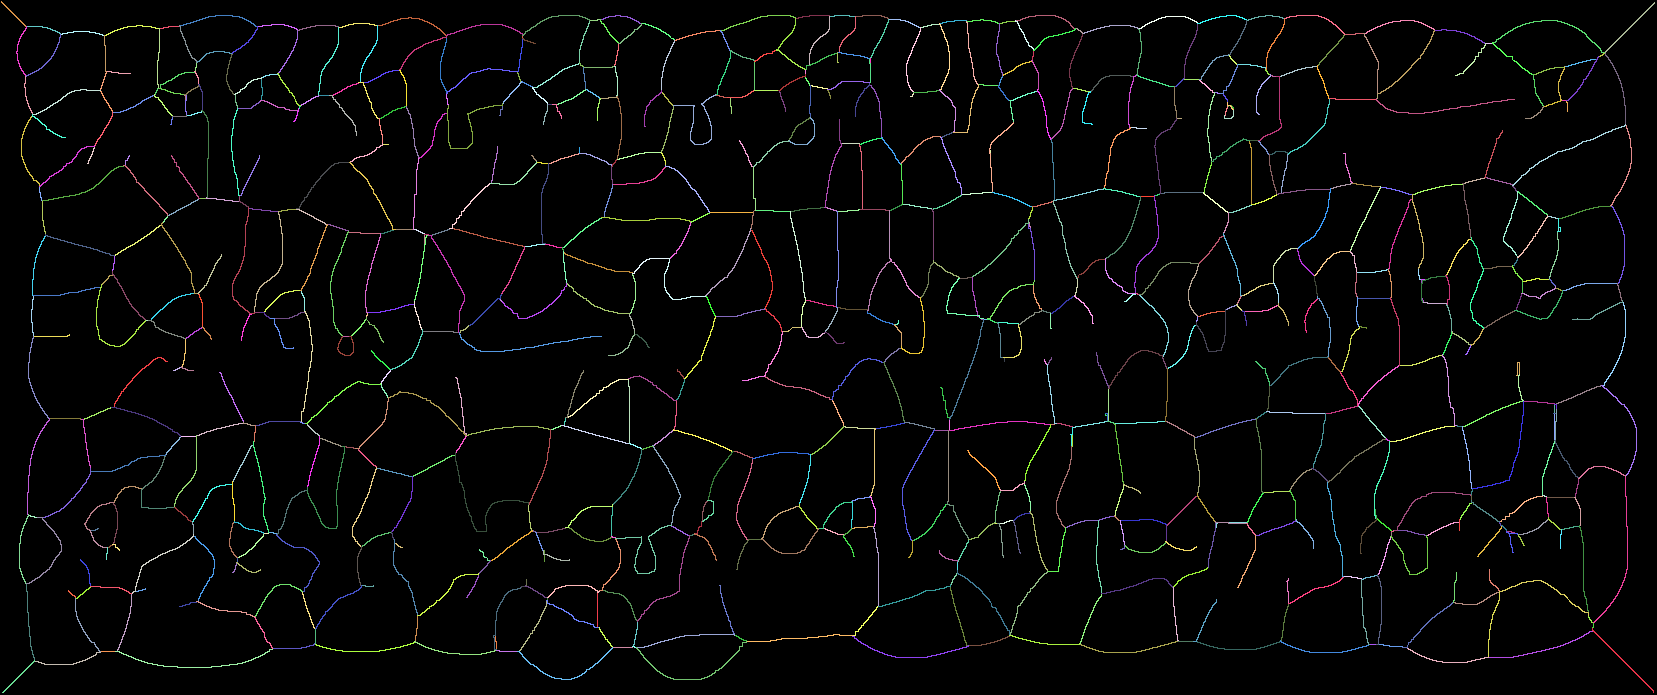
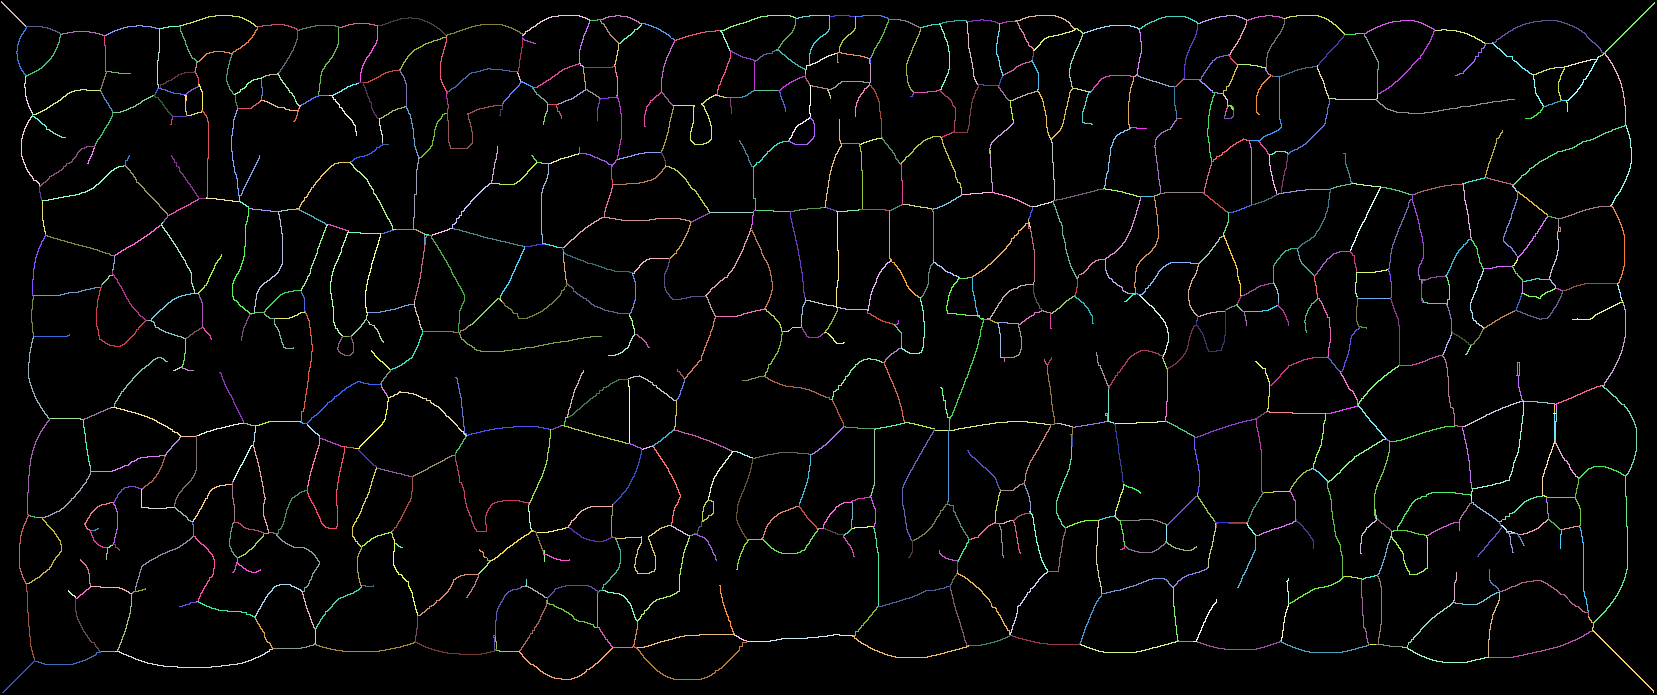
added edge classification
next: extract lines

diff --git a/main.py b/main.py
@@ -4,14 +4,47 @@ import itertools as it
 import operator as op
 import collections as col
 import numpy as np
+from enum import Enum
 import copy
 import cv2
 
 
 # ---------------------------------------------------------------------------------
 # auxiliary functions
+
+class EdgeType(Enum):
+    BRIDGE = 0
+    LINK = 1
+
+
 def uint8_array(rows):
     return np.array(rows).astype(np.uint8)
+
+
+def overlay_classified_edges(image, edge_dictionary, edge_scores):
+    image_copy = cv2.cvtColor(copy.deepcopy(image) * 200, cv2.COLOR_GRAY2RGB)
+
+    for edge in edge_dictionary.keys():
+        u, v = edge
+        # color = (rd.randint(50, 255), rd.randint(50, 255), rd.randint(50, 255))
+        if tuple([u, v]) in edge_scores.keys():
+            if edge_scores[tuple([u, v])] == EdgeType.LINK:
+                color = (255, 0, 0)
+            else:
+                color = (0, 255, 0)
+        elif tuple([v, u]) in edge_scores.keys():
+            if edge_scores[tuple([v, u])] == EdgeType.LINK:
+                color = (255, 0, 0)
+            else:
+                color = (0, 255, 0)
+        else:
+            color = (0, 0, 255)
+            # color = (0, 0, 127)
+        # cv2.circle(image, point, radius, random_color, cv2.FILLED)
+        for point in edge_dictionary[edge]:
+            image_copy[point] = color
+
+    return image_copy
 
 
 def overlay_edges(image, edge_list, color=None):
@@ -282,6 +315,45 @@ def m_edge_bfs(start, end, edge_list):
     return final_edges
 
 
+# ---------------------------
+def merge_two_edge_vertexes(edge_dictionary):
+    done = False
+    while not done:
+        all_vertexes = []
+        for element in [item for item in edge_dictionary.keys()]:
+            all_vertexes.extend(element)
+        counted_edges = col.Counter(all_vertexes)
+        # we check for each vertex in how many edges it participates in
+        # each key has two vertexes of an edge (start, end)
+        # for each vertex we count the number of times it is found in the edge list
+        # if the vertex v has two exactly, we find the relevant u1 and u2 for the edges (u1,v) and (u2,v)
+        if 2 not in counted_edges.values():
+            done = True
+        else:
+            # find first vertex with two edges
+            element = tuple()
+            for e in counted_edges:
+                if counted_edges[e] == 2:
+                    element = e
+                    break
+            # we find the relevant u1 and u2 for the edges (u1,v) and (u2,v)
+            edges_for_element = [item for item in edge_dictionary.keys() if element in item]
+            flat_edges_for_element = []
+            for e in edges_for_element:
+                flat_edges_for_element.extend(e)
+            # find new edge vertexes
+            new_edge_vertexes = tuple([item for item in flat_edges_for_element if item != element])
+            # for each edge, we find its group of pixels, and remove from dictionary
+            item_0 = edges_for_element[0]
+            item_1 = edges_for_element[1]
+            first_edge = edge_dictionary.pop(item_0)
+            second_edge = edge_dictionary.pop(item_1)
+            # combine unique edge pixels together
+            # and make v edge pixel and set (u1,u2) the new edge of vertexes u1 and u2
+            edge_dictionary[new_edge_vertexes] = list(dict.fromkeys(tuple(first_edge + second_edge + [element])))
+    return edge_dictionary
+
+
 # ---------------------------------------------------------------------------------
 # edge extraction
 def get_edges(ridges_mask, junction_pixels_mask, vertexes_list):
@@ -387,40 +459,8 @@ def get_edges(ridges_mask, junction_pixels_mask, vertexes_list):
     for edge_list in edge_dictionary.values():
         before_ridge_mask = overlay_edges(before_ridge_mask, edge_list)
     # cv2.imwrite('graph_edges_result_before.png', before_ridge_mask)
-    done = False
-    while not done:
-        all_vertexes = []
-        for element in [item for item in edge_dictionary.keys()]:
-            all_vertexes.extend(element)
-        counted_edges = col.Counter(all_vertexes)
-        # we check for each vertex in how many edges it participates in
-        # each key has two vertexes of an edge (start, end)
-        # for each vertex we count the number of times it is found in the edge list
-        # if the vertex v has two exactly, we find the relevant u1 and u2 for the edges (u1,v) and (u2,v)
-        if 2 not in counted_edges.values():
-            done = True
-        else:
-            # find first vertex with two edges
-            element = tuple()
-            for e in counted_edges:
-                if counted_edges[e] == 2:
-                    element = e
-                    break
-            # we find the relevant u1 and u2 for the edges (u1,v) and (u2,v)
-            edges_for_element = [item for item in edge_dictionary.keys() if element in item]
-            flat_edges_for_element = []
-            for e in edges_for_element:
-                flat_edges_for_element.extend(e)
-            # find new edge vertexes
-            new_edge_vertexes = tuple([item for item in flat_edges_for_element if item != element])
-            # for each edge, we find its group of pixels, and remove from dictionary
-            item_0 = edges_for_element[0]
-            item_1 = edges_for_element[1]
-            first_edge = edge_dictionary.pop(item_0)
-            second_edge = edge_dictionary.pop(item_1)
-            # combine unique edge pixels together
-            # and make v edge pixel and set (u1,u2) the new edge of vertexes u1 and u2
-            edge_dictionary[new_edge_vertexes] = list(dict.fromkeys(tuple(first_edge + second_edge + [element])))
+    # merges edges of vertexes that have two edges
+    edge_dictionary = merge_two_edge_vertexes(edge_dictionary)
 
     after_ridge_mask = cv2.cvtColor(np.zeros_like(ridges_mask), cv2.COLOR_GRAY2RGB)
     for edge_list in edge_dictionary.values():
@@ -452,6 +492,10 @@ def get_edges(ridges_mask, junction_pixels_mask, vertexes_list):
     after_ridge_mask = cv2.cvtColor(np.zeros_like(ridges_mask), cv2.COLOR_GRAY2RGB)
     for edge_list in edge_dictionary.values():
         after_ridge_mask = overlay_edges(after_ridge_mask, edge_list)
+
+    # merges edges of vertexes that have two edges
+    edge_dictionary = merge_two_edge_vertexes(edge_dictionary)
+
     # cv2.imshow('result_after', after_ridge_mask)
     cv2.imwrite('graph_edges_result_after.png', after_ridge_mask)
     cv2.imwrite('left.png', left)
@@ -519,11 +563,15 @@ def calculate_cos_angle(u, v, w):
 
 # ---------------------------------------------------------------------------------
 # assistance function - calculates for edge (u, v) how close its v junction to the shape of T
-def calculate_junction_score(u, v, edges_dictionary_keys):
+def calculate_junction_score(u, v, edges_dictionary, ridges_mask):
     v_x, v_y = v
     edges_of_v = []
     # find all edges in graph that have vertex v as part of it
-    candidates = [e for e in edges_dictionary_keys if v in e]
+    candidates = [e for e in edges_dictionary.keys() if v in e]
+    edges_pixel_list = dict()
+    for candidate in candidates:
+        edges_pixel_list[candidate] = edges_dictionary[candidate]
+
     # for each candidate, we ensure that at least one edge is not v and not u, otherwise it might be u,v !
     for e in candidates:
         first, second = e
@@ -533,79 +581,142 @@ def calculate_junction_score(u, v, edges_dictionary_keys):
             edges_of_v.append(second)
     # if we have less than two edges for v after filtering, then v does not have two edges
     # this means that we can't calculate its score, we return a failure message
+    # print('u,v', u, v)
+    # print('edges_of_v', edges_of_v)
     if len(edges_of_v) < 2:
-        return None, None
+        print('v', v, 'u', u)
+        print('candidates', candidates)
+        print('edges_of_v', edges_of_v)
+        print('----------------------------')
+        return None
     # we need to find thw two closest edges to point u from v
     # we calculate the distance between vertex u and each vertex e_i of candidate edge (v, e_i)
     distances_of_v = []
     for edge_of_v in edges_of_v:
         e_x, e_y = edge_of_v
         distances_of_v.append(np.sqrt(np.power((v_x - e_x), 2) + np.power((v_y - e_y), 2)))
+    # print('distances_of_v', distances_of_v)
     # retrieve two closest vertexes to vertex v
     min_idx = np.argmin(distances_of_v)
     max_idx = np.argmax(distances_of_v)
+    # print('min_idx', min_idx, 'max_idx', max_idx)
     w1 = edges_of_v[min_idx]
-    edges_of_v[min_idx] = edges_of_v[max_idx]
+    distances_of_v[min_idx] = distances_of_v[max_idx] * 2
     min_idx = np.argmin(distances_of_v)
+    # print('distances_of_v_after_change', distances_of_v, 'min_idx', min_idx)
     w2 = edges_of_v[min_idx]
+    # print('u', u, 'v', v, 'w1', w1, 'w2', w2)
+    # print('edges_pixel_list', edges_pixel_list.keys())
+    junction_pixels = dict()
+    if tuple([u, v]) in edges_pixel_list.keys():
+        junction_pixels[tuple([u, v])] = edges_pixel_list[tuple([u, v])]
+    else:
+        junction_pixels[tuple([u, v])] = edges_pixel_list[tuple([v, u])]
+
+    if tuple([v, w1]) in edges_pixel_list.keys():
+        junction_pixels[tuple([v, w1])] = edges_pixel_list[tuple([v, w1])]
+    else:
+        junction_pixels[tuple([v, w1])] = edges_pixel_list[tuple([w1, v])]
+
+    if tuple([v, w2]) in edges_pixel_list.keys():
+        junction_pixels[tuple([v, w2])] = edges_pixel_list[tuple([v, w2])]
+    else:
+        junction_pixels[tuple([v, w2])] = edges_pixel_list[tuple([w2, v])]
     # now we have three edges: (u, v), (v, w1), (v, w2)
     # calculate the angles between each two edges
-    angle_uv_vw1 = calculate_cos_angle(u, v, w1)
-    angle_uv_vw2 = calculate_cos_angle(u, v, w2)
-    angle_w1v_vw2 = calculate_cos_angle(w1, v, w2)
+    uv_vw1 = calculate_cos_angle(u, v, w1)
+    uv_vw2 = calculate_cos_angle(u, v, w2)
+    w1v_vw2 = calculate_cos_angle(w1, v, w2)
     # we find the junction score by finding how far the 2nd cos(degree) is from 0
-    if angle_w1v_vw2 >= angle_uv_vw1 >= angle_uv_vw2:
-        min_junction_score = np.abs(angle_uv_vw1)
-    elif angle_w1v_vw2 >= angle_uv_vw2 >= angle_uv_vw1:
-        min_junction_score = np.abs(angle_uv_vw2)
-    elif angle_uv_vw2 >= angle_w1v_vw2 >= angle_uv_vw1:
-        min_junction_score = np.abs(angle_w1v_vw2)
-    else:
-        return None, None
-    # return the junction edges (u,v) (v,w1) (v,w2) in two tuple format
-    # also returned the junction score. the closer the score to 0 the more its shape looks like T
-    return tuple([(u, v), (w1, w2)]), min_junction_score
+    scores = []
+    bridge_threshold = np.pi / 4.0
+    # print('uv_vw1', uv_vw1, 'uv_vw2', uv_vw2, 'w1v_vw2', w1v_vw2)
+    # print('junction_pixels', junction_pixels.keys())
+
+    if np.abs(np.arccos(w1v_vw2)) >= np.abs(np.arccos(uv_vw1)) \
+            and np.abs(np.arccos(w1v_vw2)) >= np.abs(np.arccos(uv_vw2)) \
+            and np.pi + bridge_threshold >= np.abs(np.arccos(uv_vw1)) + \
+            np.abs(np.arccos(uv_vw2)) >= np.pi - bridge_threshold:
+        scores.append(((u, v), EdgeType.BRIDGE, np.abs(np.abs(np.arccos(uv_vw1))
+                                                       + np.abs(np.arccos(uv_vw2)))))
+        scores.append(((w1, v), EdgeType.LINK, np.abs(np.arccos(w1v_vw2))))
+        scores.append(((v, w2), EdgeType.LINK, np.abs(np.arccos(w1v_vw2))))
+
+    # print('uv_vw1', np.arccos(uv_vw1), 'uv_vw2',
+    #      np.arccos(uv_vw2), 'w1v_vw2', np.arccos(w1v_vw2))
+    # print('----------------------------')
+    # result = cv2.cvtColor(np.zeros_like(ridges_mask), cv2.COLOR_GRAY2RGB)
+    # for edge in junction_pixels.keys():
+    #     result = overlay_edges(result, junction_pixels[edge])
+    # cv2.imshow('result', result)
+    # cv2.waitKey()
+    # cv2.destroyAllWindows()
+
+    return scores
 
 
 # ---------------------------------------------------------------------------------
 # classify edges, bridge or link
-def classify_edges(edges_dictionary):
-    classifications = dict()
-    # TODO first, we get for each vertex, its list of edges
-    # TODO second, for each vertex and its list of edges, we calculate the degrees of each 3 edges
-    # TODO 3rd, we find the best result out of three -> closest to a T junction
-    # TODO 4th, if
-    edge_scores = dict()
-    edge_dictionary_keys = edges_dictionary.keys()
-    for edge in edge_dictionary_keys:
+def classify_edges(edges_dictionary, ridges_mask):
+    edge_scores = []
+    edges_dictionary_keys = edges_dictionary.keys()
+    for edge in edges_dictionary_keys:
         u, v = edge
-        if u == v:  # TODO this need to be fixed - remove edges that have same u and v.. why are they present?!?!
+        if u == v:  # TODO this need to be fixed - remove edges that have same u and v.
             continue
-        junction, score = calculate_junction_score(u, v, edge_dictionary_keys)
-        if junction is not None:
-            edge_scores[junction] = score
-        junction, score = calculate_junction_score(v, u, edge_dictionary_keys)
-        if junction is not None:
-            edge_scores[junction] = score
+        junction_score = calculate_junction_score(u, v, edges_dictionary, ridges_mask)
+        if junction_score is not None:
+            edge_scores.extend(junction_score)
+            junction_score = calculate_junction_score(v, u, edges_dictionary, ridges_mask)
+        if junction_score is not None:
+            edge_scores.extend(junction_score)
 
-    # if score of edge (u,v) + score of edge (v,u) < 1 -> bridge, otherwise, link
-    # not all edges have their mirror edge, we classify by < 0.5 then
-    # TODO think about this .....
-    for elem1 in edge_scores.keys():
-        print('elem1=', elem1)
-        elem2 = tuple([tuple(reversed(elem1[0])), elem1[1]])
-        if elem2 in edge_scores.keys():
-            print(elem2, 'score=', edge_scores[elem2])
+    final_scores = dict()
+    # TODO remove collection of edges filtered from edge_scores
+    # TODO improves performance, maybe fixes some issues..
+    done = False
+    while not done:
+        edge = edge_scores[0]
+        # print('edge_scores=', edge_scores)
+        # print('edge=', edge)
+        # retrieve all entries with of the edge (u,v) from the scores list
+        one_edge_scores = tuple(filter(
+            lambda x: edge[0] == x[0] or tuple(reversed(edge[0])) == x[0], edge_scores))
+        edge_scores = list(filter(lambda e: e not in one_edge_scores, edge_scores))
+
+        if len(edge_scores) == 0:
+            done = True
+        # filter out bridge type scores of the edge
+        bridge_scores = tuple(map(
+            lambda x: x[2], filter(
+                lambda x: x[1] == EdgeType.BRIDGE, one_edge_scores)))
+        # print('bridge_scores =', bridge_scores)
+        # print('bridge_scores=', bridge_scores)
+        if len(bridge_scores) == 0:
+            bridge_score = 0
         else:
-            print('no elem2!')
-    print(edge_scores)
-    exit()
-    # we have a dictionary of edge_scores, key is edge (u,v), and value is its T shape score
-    # TODO then decide how to classify !  ! ? ? ? ? ?
-    # TODO this needs to be calculated twice for each edge ? ? ? ? ? ?
-    # TODO !!!!!
+            bridge_score = ft.reduce(op.add, bridge_scores) / len(bridge_scores)
+        # filter out link type scores of the edge
+        link_scores = tuple(map(
+            lambda x: x[2], filter(
+                lambda x: x[1] == EdgeType.LINK, one_edge_scores)))
+        # print('link_scores =', link_scores)
+        # print('link_scores=', link_scores)
+        if len(link_scores) == 0:
+            link_score = 0
+        else:
+            link_score = ft.reduce(op.add, link_scores) / len(link_scores)
+        # an edge can be classified differently for each of its two vertexes
+        # we check each classification value, if the value closer to PI
+        # in one of the two classifications - we choose that.
+        if np.abs(np.pi - bridge_score) <= np.abs(np.pi - link_score):
+            print('BRIDGE=', bridge_score, ' LINK=', link_score, ' TYPE=', EdgeType.BRIDGE)
+            final_scores[edge[0]] = EdgeType.BRIDGE
+        else:
+            print('BRIDGE=', bridge_score, ' LINK=', link_score, ' TYPE=', EdgeType.LINK)
+            final_scores[edge[0]] = EdgeType.LINK
 
-    return classifications
+    return final_scores
 
 
 # ---------------------------------------------------------------------------------
@@ -627,10 +738,14 @@ def run_all(path):
     edge_dictionary = get_edges(ridges_mask, junction_pixels_mask, vertexes_list)
     # using each two vertexes of an edge, we classify whether an edge is a brige (between two lines),
     # or a link (part of a line). As a result, we receive a list of edges and their classification
-    classification = classify_edges(edge_dictionary)
+    edge_scores = classify_edges(edge_dictionary, ridges_mask)
 
-
-
+    classified_image = overlay_classified_edges(image_preprocessed, edge_dictionary, edge_scores)
+    cv2.imshow('overlay_classified_edges', classified_image)
+    cv2.imwrite('classified_edges.png', classified_image)
+    cv2.waitKey()
+    cv2.destroyAllWindows()
+    exit()
     # display
     overlay_image = overlay_images(ridges_mask * 255, vertex_mask * 255, vertexes_list)
     cv2.imwrite('overlay_image.png', overlay_image)
